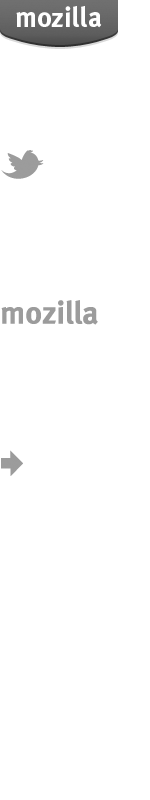
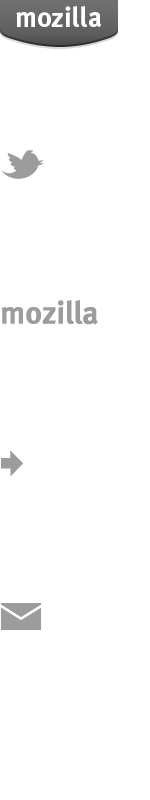
Adding in the sign-up form to the site footer

Changed region(s): [[0.0, 0.75, 0.2933, 0.8125]]

diff --git a/templates_ignite/second_base.html b/templates_ignite/second_base.html
@@ -108,11 +108,27 @@
         </section>
         <section class="external">
             <div class="busta">
-            <div class="col box tweet">
-                <h2 class="point">Follow and tweet</h2>
-                <p>What becomes possible at 1GBps? What's the future of the web and smart networks? Tweet your thoughts with <a href="https://twitter.com/#!/search?q=%23usignite">#usignite</a>.</p>
-                <a href="https://twitter.com/mozilla" class="twitter-follow-button" data-show-count="false">Follow @mozilla</a>
-                <script src="//platform.twitter.com/widgets.js" type="text/javascript"></script>
+            <div class="col box post">
+                <h2 class="point">Get email updates about Ignite and Mozilla</h2>
+                <form action="https://donate.mozilla.org/page/s/mozilla-ignite-updates" method="post" name="signup">
+                    <label for="email" class="indent">Email</label>
+                    <input type="text" name="email" id="email" value="" required placeholder="Email address" />
+                    <div class="inline_field">
+                        <label>
+                            <input type="checkbox" id="custom-978" name="custom-978" value="1" required />
+                            I'm okay with you handling this info as you explain in your <a href="http://www.mozilla.org/about/policies/privacy-policy.html">privacy policy:</a>.
+                        </label>
+                    </div>
+                    <div class="inline_field">
+                        <label>
+                            <input type="checkbox" id="email_opt_in" name="email_opt_in" value="1" >
+                            I want to receive email updates about Ignite and Mozilla's other projects and campaigns.
+                        </label>
+                    </div>
+                    <div class="inline_field">
+                    </div>
+                    <input type="submit" name="submit-btn" value="Keep me updated" class="cta" />
+                </form>
             </div>
             <div class="col box learn">
                 <h2 class="point">Learn more</h2>
@@ -128,7 +144,9 @@
                     <li><a href="http://www.mozilla.org/about/mission.html">Learn about Mozilla's mission</a></li>
                     <li><a href="https://donate.mozilla.org/join/">Join Mozilla</a></li>
                     <li><a href="http://www.facebook.com/mozilladrumbeat/">Like us on Facebook</a></li>
+                    <li><a href="https://twitter.com/mozilla" class="twitter-follow-button" data-show-count="false">Follow @mozilla</a></li>
                 </ul>
+                <script src="//platform.twitter.com/widgets.js" type="text/javascript"></script>
             </div>
             </div>
         </section>

diff --git a/media/ignite/css/devices.css b/media/ignite/css/devices.css
@@ -649,9 +649,23 @@ legend span {
 .external .learn h2 {
     background-position: 0 -440px;
 }
+.external .post h2 {
+    background-position: 0 -590px;
+}
 .external p {
     font-size: 14px;
     color: #454545;
+}
+.external label {
+    font-size: 14px;
+    color: #454545;
+    font-weight: normal;
+}
+.external label.indent {
+    height: 1px;
+    overflow: hidden;
+    position: absolute;
+    left: -9999em;
 }
 .external ul {
     padding-left: 0;
